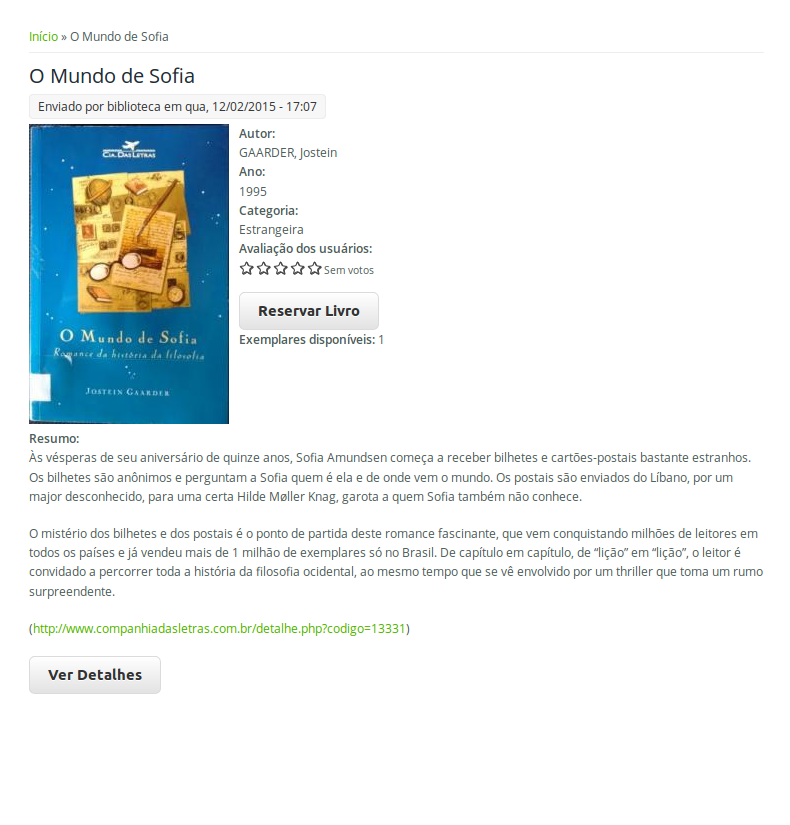
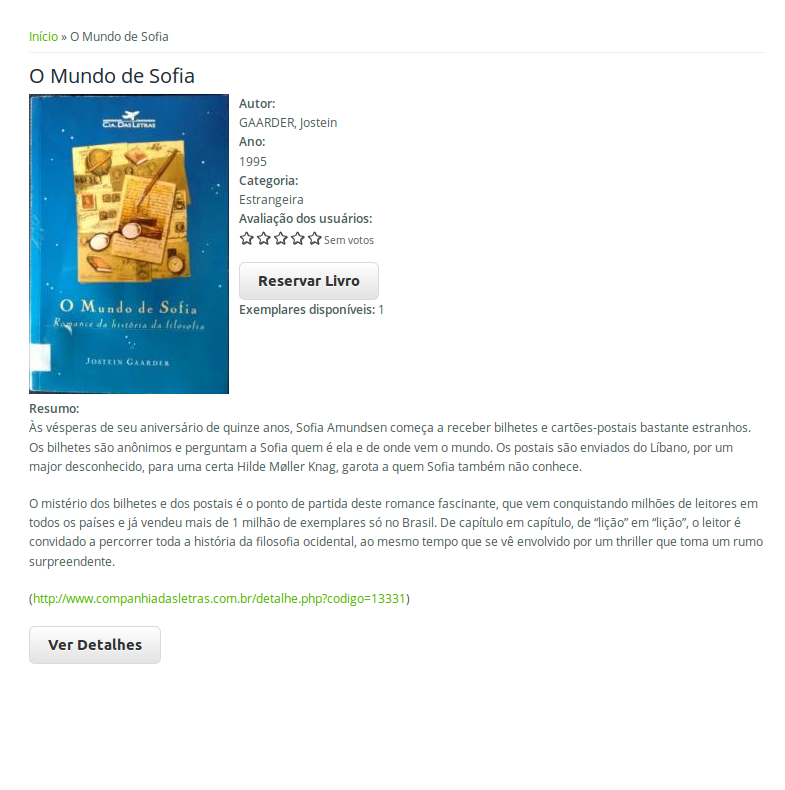
changed font and publication images

Changed region(s): [[0.0306, 0.0304, 0.9783, 0.8506], [0.0306, 0.243, 0.0611, 0.3342]]

diff --git a/mono.tex b/mono.tex
@@ -11,6 +11,7 @@
 \usepackage{caption}
 \usepackage{subcaption}
 \usepackage[nottoc]{tocbibind}
+\usepackage{lmodern}
 \captionsetup[figure]{position=above,labelsep=period}
 \captionsetup[table]{position=above,labelsep=period}
 \setlength{\parskip}{\baselineskip}
@@ -230,6 +231,7 @@ Foi habilitada a funcionalidade do \textit{Drupal} que exige a aprovação do ca
 \includegraphics[width=140mm]{img/newuser.png}
 \caption{Formulário de cadastro.\label{cadastro}}
 \end{figure}
+
 
 \subsubsection{Criação da página de um usuário}
 
@@ -542,7 +544,7 @@ Foi criado um terceiro painel administrativo, similar aos anteriores, para o mon
 
 \begin{figure}[pbth!]
 \centering
-\includegraphics[width=120mm]{img/suspended-users.png}
+\includegraphics[width=150mm]{img/suspended-users.png}
 \caption{Usuários suspensos.\label{suspended-users}}
 \end{figure}
 
